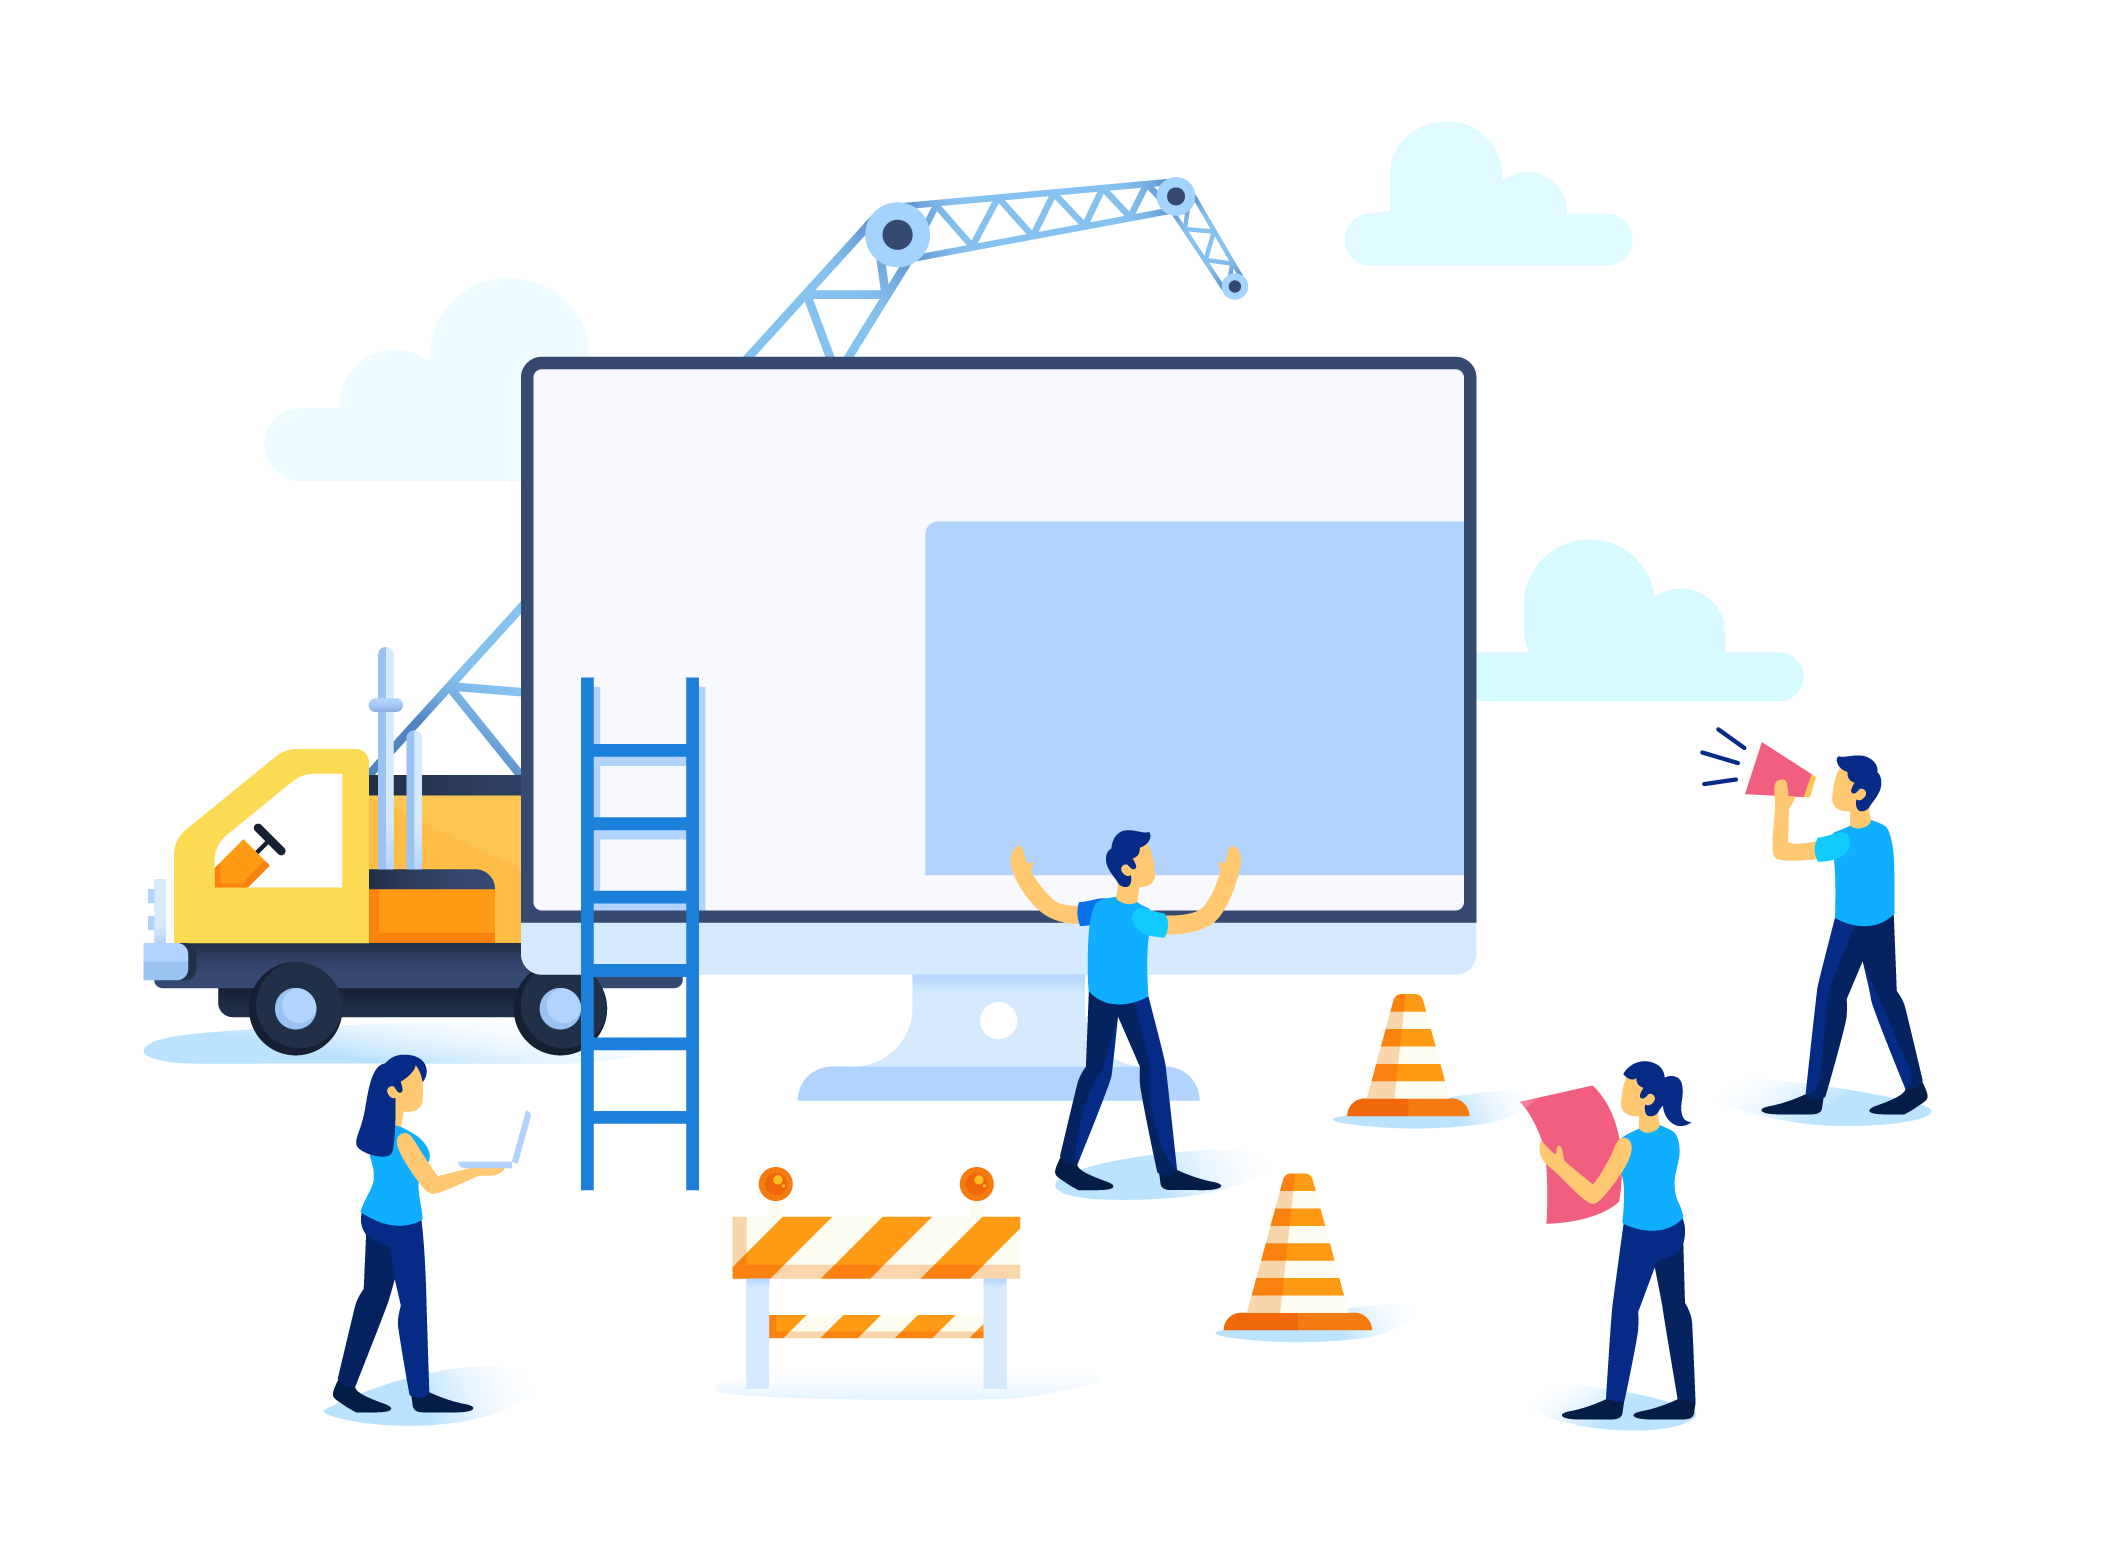
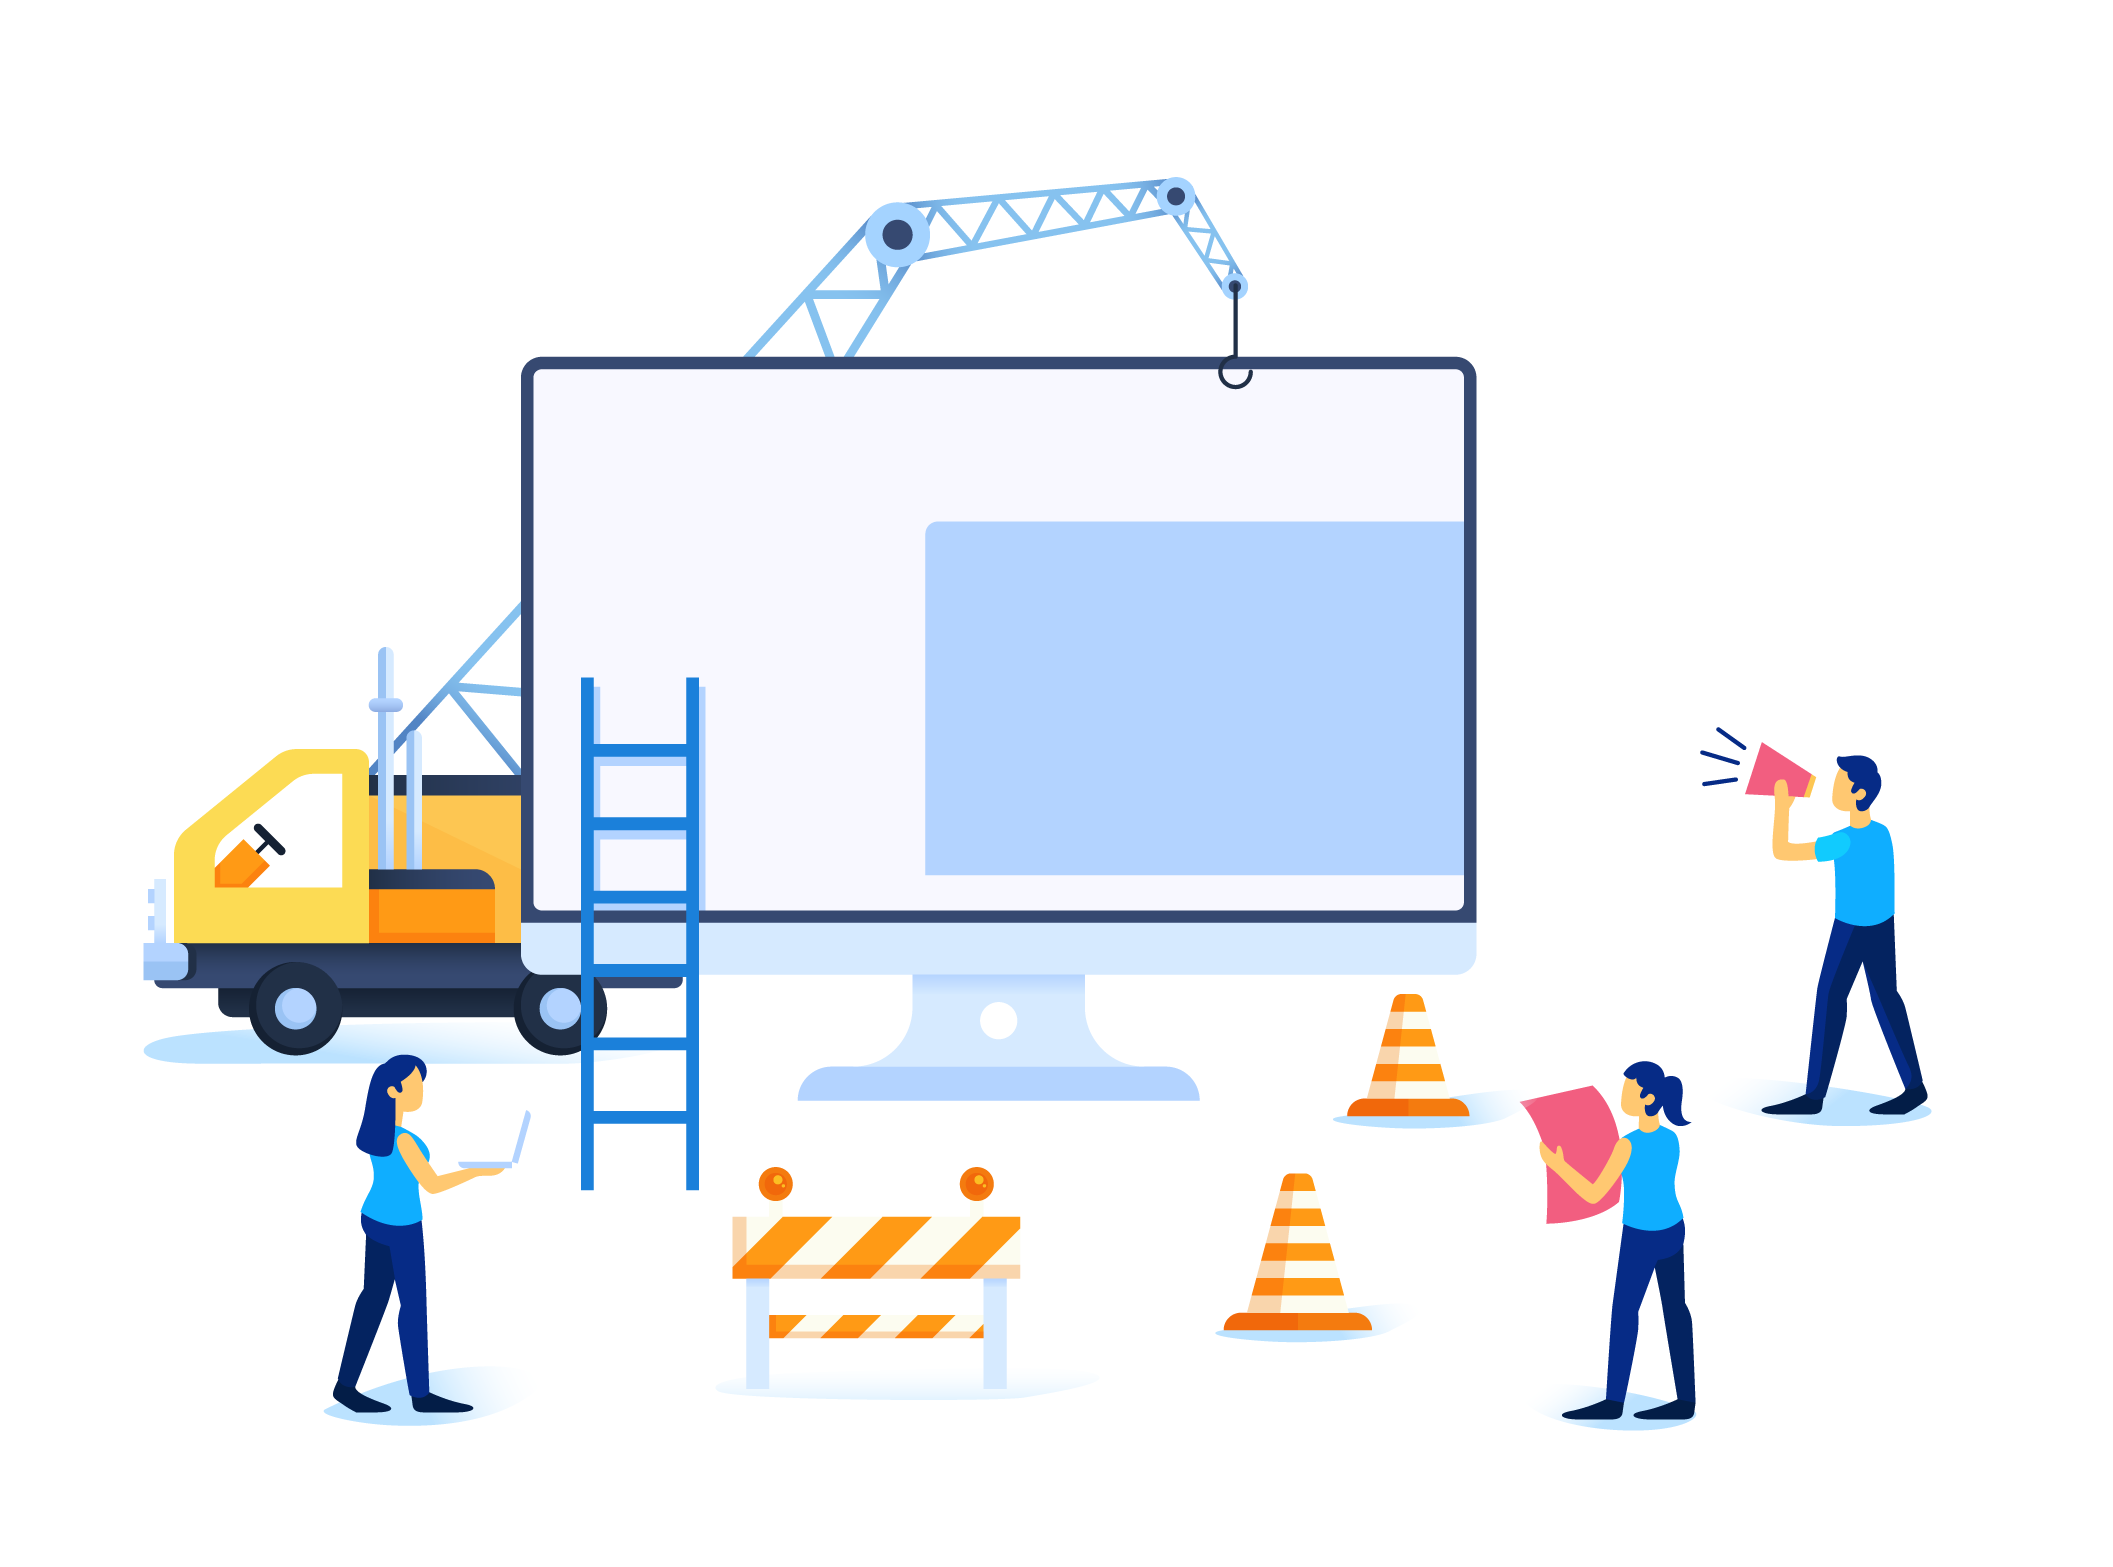
añadiendo nuevas imagenes para animar

diff --git a/public/styles/tutoriales.scss b/public/styles/tutoriales.scss
@@ -267,67 +267,76 @@ html{
     
     display: flex;
     flex-direction: column;
-    flex-wrap: nowrap;
     justify-content: center;
     align-content: center;
     align-items: center;
+    position: relative;
+    margin-top: 5%;
+    width: 100%;
+    height: 100%;
     
     h1{
-        margin-bottom: 30px;
         font-family: 'Open Sans', sans-serif;
-        font-weight: 700;
-        font-size: 50px;
+        font-weight: 400;
+        font-size: 32px;
         color:  rgb(15, 55, 139);
+        z-index: 5;
+        
+    }
+
+    .button{
+        z-index: 6;
+    }
+
+    &__animacion{
+
+        display: flex;
+        flex-direction: column;
+        justify-content: center;
+        align-content: center;
+        align-items: center;
+        position: absolute;
+        margin-top: 25%;
+        width: 100%;
+        height: 100%;
+
+        &__imgu{
+            position: absolute;
+            z-index: 1;
+            width: 70%;
+            max-width: 100%;
+        }
+    
+        //tuerca grande
+        &__imgd{
+            position: absolute;
+            z-index: 2;
+            width: 10%;
+            left: 32%;
+            bottom: 198%;
+        }
+    
+        //tuerca pequeña
+        &__imgt{
+            position: absolute;
+            z-index: 3;
+            width: 10%;
+            bottom: 20%;
+            right: 53%;
+        }
+    
+        //codigo imagen
+        &__imgc{
+            position: absolute;
+            z-index: 4;
+            width: 20%;
+            min-width: 30%;
+            right: 29.8%;
+            bottom: -100%;
+
+        }
     }
     
-    &__imgu{
-        z-index: 1;
-    }
-
-    &__imgd{
-        z-index: 2;
-    }
-    
-    &__imgt{
-        z-index: 3;
-    }
-
-    &__imgc{
-        z-index: 4;
-    }
-
-
-    img{
-        max-width: 40%;
-    }
 }
 
-.azul{
-    display: flex;
-    flex-direction: column;
-    flex-wrap: nowrap;
-    justify-content: center;
-    align-content: center;
-    align-items: center;
-    
-    h1{
-        margin-bottom: 30px;
-        font-family: 'Open Sans', sans-serif;
-        font-weight: 700;
-        font-size: 50px;
-        color:  rgb(15, 55, 139);
-    } 
-}
-
-.bdos{
-    display: flex;
-    flex-direction: column;
-    flex-wrap: nowrap;
-    justify-content: center;
-    align-content: center;
-    align-items: center;
-    img{
-        max-width: 4 0%;
-    }
-}
 

diff --git a/public/js/tutoriales.js b/public/js/tutoriales.js
@@ -1,0 +1,22 @@
+
+function animacionCargada(){
+
+    var box = document.querySelector("#box1");
+    var box2 = document.querySelector("#box2");
+    var box3 = document.querySelector("#box3");
+    var box4 = document.querySelector("#box4");
+    
+    var tl = new TimelineMax({repeat: -1, repeatDelay: 1});
+    
+    tl.to(box4, 1, {rotation:1})
+    tl.to(box4, 1, {rotation:-1})
+    tl.to(box4, 1, {rotation:1})
+    
+
+    var tl = new TimelineMax({repeat: -1, yoyo: true});
+    
+    tl.to(box3, 5, {rotation:360, transformOrigin: "center center"})
+    tl.to(box3, 5, {rotation:360, transformOrigin: "center center"})
+}
+    
+window.addEventListener('load', animacionCargada);
